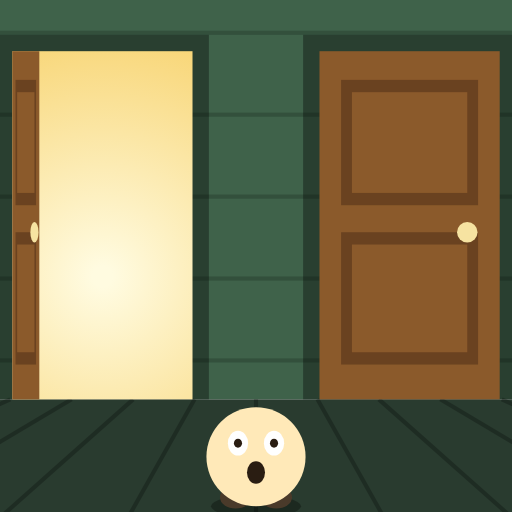
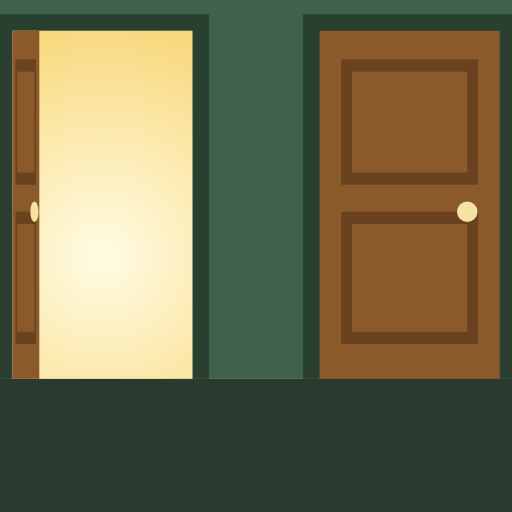
two-doors: drop title screen and character, first-person deaths
Claude-Session: https://claude.ai/code/session_0143w8G9asUehyQUcRHNAQVS

diff --git a/games/two-doors/index.html b/games/two-doors/index.html
@@ -30,7 +30,6 @@ header button,header select{background:#2a2430;color:#f4ecdc;border:1px solid #4
 canvas{display:block;touch-action:none;border-radius:14px;cursor:pointer;max-width:100%}
 .panel{position:absolute;inset:0;display:flex;flex-direction:column;align-items:center;justify-content:center;gap:14px;text-align:center;padding:0 16px calc(env(safe-area-inset-bottom))}
 .panel[hidden]{display:none}
-#start h1{margin:0;font-size:clamp(30px,9vw,46px);letter-spacing:.06em;text-shadow:0 3px 0 #000,0 0 24px #000}
 .panel button,.panel a{font:inherit;font-size:18px;font-weight:700;border:0;border-radius:999px;padding:12px 28px;min-width:180px;cursor:pointer;text-decoration:none;display:inline-block}
 .go{background:#f2c14e;color:#2a1a05;box-shadow:0 4px 0 #9b6f12}
 #share{background:#000;color:#fff;box-shadow:0 4px 0 #444}
@@ -49,7 +48,6 @@ canvas{display:block;touch-action:none;border-radius:14px;cursor:pointer;max-wid
 </header>
 <div id="stage">
   <canvas id="c"></canvas>
-  <div class="panel" id="start"><h1 id="title"></h1><button class="go" id="startBtn"></button></div>
   <div class="panel" id="result" hidden>
     <div id="rooms"></div><div id="best"></div>
     <a id="share" href="#"></a>
@@ -60,10 +58,10 @@ canvas{display:block;touch-action:none;border-radius:14px;cursor:pointer;max-wid
 const $=id=>document.getElementById(id);
 const SHARE_URL='https://keifurukawafunnych.com/games/two-doors/',SHARE_NAME='two-doors.png',TAG='#運命のドアゲーム';
 const L={
- ja:{title:'運命のドア',back:'← トップへ戻る',start:'スタート',retry:'もう一度',share:'X に投稿',rooms:n=>`${n}部屋`,best:n=>`自己ベスト ${n}部屋`,newBest:'自己ベスト更新',saved:'画像を保存しました',shareText:n=>`運命のドアで${n}部屋まで進んだ\n${TAG}`},
- ko:{title:'운명의 문',back:'← 처음으로',start:'시작',retry:'다시 하기',share:'X에 게시',rooms:n=>`${n}개의 방`,best:n=>`최고 기록 ${n}개의 방`,newBest:'최고 기록 갱신',saved:'이미지를 저장했어요',shareText:n=>`운명의 문에서 ${n}개의 방까지 갔다\n${TAG}`},
- en:{title:'Doors of Fate',back:'← Back to top',start:'Start',retry:'Play again',share:'Post on X',rooms:n=>`${n} room${n===1?'':'s'}`,best:n=>`Best ${n} room${n===1?'':'s'}`,newBest:'New best',saved:'Image saved',shareText:n=>`I made it through ${n} room${n===1?'':'s'} in Doors of Fate\n${TAG}`},
- th:{title:'ประตูแห่งโชคชะตา',back:'← กลับหน้าแรก',start:'เริ่ม',retry:'เล่นอีกครั้ง',share:'โพสต์ลง X',rooms:n=>`${n} ห้อง`,best:n=>`สถิติสูงสุด ${n} ห้อง`,newBest:'ทำสถิติใหม่',saved:'บันทึกรูปแล้ว',shareText:n=>`ผ่านไปได้ ${n} ห้องในประตูแห่งโชคชะตา\n${TAG}`}
+ ja:{title:'運命のドア',back:'← トップへ戻る',retry:'もう一度',share:'X に投稿',rooms:n=>`${n}部屋`,best:n=>`自己ベスト ${n}部屋`,newBest:'自己ベスト更新',saved:'画像を保存しました',shareText:n=>`運命のドアで${n}部屋まで進んだ\n${TAG}`},
+ ko:{title:'운명의 문',back:'← 처음으로',retry:'다시 하기',share:'X에 게시',rooms:n=>`${n}개의 방`,best:n=>`최고 기록 ${n}개의 방`,newBest:'최고 기록 갱신',saved:'이미지를 저장했어요',shareText:n=>`운명의 문에서 ${n}개의 방까지 갔다\n${TAG}`},
+ en:{title:'Doors of Fate',back:'← Back to top',retry:'Play again',share:'Post on X',rooms:n=>`${n} room${n===1?'':'s'}`,best:n=>`Best ${n} room${n===1?'':'s'}`,newBest:'New best',saved:'Image saved',shareText:n=>`I made it through ${n} room${n===1?'':'s'} in Doors of Fate\n${TAG}`},
+ th:{title:'ประตูแห่งโชคชะตา',back:'← กลับหน้าแรก',retry:'เล่นอีกครั้ง',share:'โพสต์ลง X',rooms:n=>`${n} ห้อง`,best:n=>`สถิติสูงสุด ${n} ห้อง`,newBest:'ทำสถิติใหม่',saved:'บันทึกรูปแล้ว',shareText:n=>`ผ่านไปได้ ${n} ห้องในประตูแห่งโชคชะตา\n${TAG}`}
 };
 const LANGS=['ja','ko','en','th'];
 let lang=null;try{lang=localStorage.getItem('two-doors-lang')}catch{}
@@ -87,7 +85,7 @@ const SFX={
 };
 
 // ---- 描画 ----
-const W=360,H=560,FL=400,DW=88,DH=170,DX=[105,255],PY=480,FY=418;
+const W=360,H=560,FL=400,DW=88,DH=170,DX=[105,255];
 const cv=$('c'),cx=cv.getContext('2d');
 function fit(){const r=$('stage').getBoundingClientRect(),s=Math.min(r.width/W,r.height/H),dpr=Math.min(devicePixelRatio||1,3);cv.style.width=W*s+'px';cv.style.height=H*s+'px';cv.width=Math.round(W*s*dpr);cv.height=Math.round(H*s*dpr);scale=s*dpr}
 let scale=1;
@@ -95,9 +93,7 @@ function theme(lv){const h=(28+lv*37)%360,d=Math.max(10,34-lv*.8);return{wall:`h
 function ell(c,x,y,rx,ry,col){c.fillStyle=col;c.beginPath();c.ellipse(x,y,Math.max(.1,rx),Math.max(.1,ry),0,0,7);c.fill()}
 function drawRoom(c,lv,open){
  const th=theme(lv);c.fillStyle=th.wall;c.fillRect(0,0,W,FL);
- c.fillStyle=th.wall2;for(let y=20;y<FL;y+=40)c.fillRect(0,y,W,2);
  c.fillStyle=th.floor;c.fillRect(0,FL,W,H-FL);
- c.strokeStyle='rgba(0,0,0,.25)';c.lineWidth=2;for(let i=-4;i<=4;i++){c.beginPath();c.moveTo(180+i*30,FL);c.lineTo(180+i*120,H);c.stroke()}
  // ランプ（クリアした部屋の数）
  const per=10,r=lv>30?4:6;for(let i=0;i<lv;i++){const row=Math.floor(i/per),col=i%per;ell(c,180+(col-4.5)*(r*2.8),26+row*(r*2.8),r,r,i%10===9?'#ffe27a':'#f2c14e')}
  for(let s=0;s<2;s++){
@@ -117,63 +113,49 @@ function drawRoom(c,lv,open){
   ell(c,x+w*.82,y+DH*.52,5*(1-p*.6),5,'#f6e3a1');
  }
 }
-function drawPlayer(c,x,y,s,o={}){
- c.save();c.translate(x,y);c.rotate(o.rot||0);c.scale(s*(o.sx||1),s*(o.sy||1));
- c.globalAlpha=o.alpha??1;
- ell(c,0,22,20,5,'rgba(0,0,0,.3)');
- ell(c,-9,18,7,5,o.foot||'#4a3a2a');ell(c,9,18,7,5,o.foot||'#4a3a2a');
- ell(c,0,0,22,22,o.col||'#ffe9b8');
- if(o.bones){c.strokeStyle='#fff';c.lineWidth=2.5;c.beginPath();c.moveTo(0,-6);c.lineTo(0,16);for(let i=0;i<3;i++){c.moveTo(-10,2+i*5);c.lineTo(10,2+i*5)}c.stroke()}
- const e=o.eyes||'n',ec=o.eyeCol||'#2a1d12';c.strokeStyle=ec;c.fillStyle=ec;c.lineWidth=2.5;
- for(const ex of[-8,8]){
-  if(e==='x'){c.beginPath();c.moveTo(ex-4,-10);c.lineTo(ex+4,-2);c.moveTo(ex+4,-10);c.lineTo(ex-4,-2);c.stroke()}
-  else if(e==='o'){ell(c,ex,-6,4.5,5.5,'#fff');ell(c,ex,-6,1.8,2,ec)}
-  else ell(c,ex,-6,3,3.5,ec);
- }
- if(e==='o'||e==='x')ell(c,0,7,4,5,ec);
- c.restore();
-}
 const lerp=(a,b,k)=>a+(b-a)*k,cl=k=>Math.max(0,Math.min(1,k)),ease=k=>k*k*(3-2*k);
 function flame(c,x,y,s,k){for(let i=0;i<3;i++){const h=s*(1-i*.3)*(0.85+.15*Math.sin(k*40+i));c.fillStyle=['#e8481c','#f59a1f','#ffe066'][i];c.beginPath();c.moveTo(x-s*.45*(1-i*.3),y);c.quadraticCurveTo(x-s*.5*(1-i*.3),y-h*.6,x,y-h);c.quadraticCurveTo(x+s*.5*(1-i*.3),y-h*.6,x+s*.45*(1-i*.3),y);c.fill()}}
-function arrow(c,x,y,dir,len){c.strokeStyle='#5b3a1c';c.lineWidth=3;c.beginPath();c.moveTo(x,y);c.lineTo(x-dir*len,y);c.stroke();c.fillStyle='#ccc';c.beginPath();c.moveTo(x+dir*6,y);c.lineTo(x-dir*2,y-5);c.lineTo(x-dir*2,y+5);c.fill();c.fillStyle='#d33';c.fillRect(dir>0?x-len:x+len-8,y-4,8,8)}
-
-// 死に方：k は 0〜1。x は外れドアの前
+// 画面のひび（目の前に当たった跡）
+function crack(c,x,y,r,col='rgba(255,255,255,.85)'){c.strokeStyle=col;c.lineWidth=2;for(let i=0;i<9;i++){const a=i*.7+.3;c.beginPath();c.moveTo(x,y);let px=x,py=y;for(let j=1;j<=3;j++){px=x+Math.cos(a+j*.15*(i%2?1:-1))*r*j/3;py=y+Math.sin(a+j*.15*(i%2?1:-1))*r*j/3;c.lineTo(px,py)}c.stroke()}}
+function redEdge(c,a){const g=c.createRadialGradient(W/2,H/2,H*.2,W/2,H/2,H*.7);g.addColorStop(0,'rgba(170,0,0,0)');g.addColorStop(1,`rgba(170,0,0,${a})`);c.fillStyle=g;c.fillRect(0,0,W,H)}
+function monsterFace(c,m){ell(c,0,0,48,44,'#5b2a7a');ell(c,-18,-18,9,9,'#ffe94a');ell(c,18,-18,9,9,'#ffe94a');ell(c,-18,-18,3,6,'#000');ell(c,18,-18,3,6,'#000');ell(c,0,14,34,m,'#1a0a14');c.fillStyle='#fff';for(let i=-3;i<=3;i++){c.beginPath();c.moveTo(i*9-4,14-m);c.lineTo(i*9,14-m+10);c.lineTo(i*9+4,14-m);c.fill();c.beginPath();c.moveTo(i*9-4,14+m);c.lineTo(i*9,14+m-10);c.lineTo(i*9+4,14+m);c.fill()}}
+function rock(c,x,y,r,rot){c.save();c.translate(x,y);c.rotate(rot);ell(c,0,0,r,r,'#7c7468');ell(c,-r*.3,-r*.2,r*.2,r*.15,'#5f584e');ell(c,r*.35,r*.3,r*.25,r*.18,'#5f584e');ell(c,r*.1,-r*.5,r*.15,r*.1,'#5f584e');c.restore()}
+function ghostShape(c){c.fillStyle='#f4f6ff';c.beginPath();c.arc(0,0,34,Math.PI,0);c.lineTo(34,40);for(let i=0;i<4;i++)c.quadraticCurveTo(34-i*17-8,50,34-(i+1)*17,40);c.fill();ell(c,-12,-6,6,8,'#111');ell(c,12,-6,6,8,'#111');ell(c,0,14,7,9,'#111')}
+const DY=FL-DH/2;
+// 死に方：k は 0〜1、x は外れドアの中心。すべて自分の目線で起きる
 const DEATHS={
- pit(c,k,x){const hr=lerp(0,42,cl(k/.2));ell(c,x,FY+16,hr,hr*.32,'#000');const f=cl((k-.2)/.45);if(f<1)drawPlayer(c,x,FY+f*f*30,.9*(1-f),{eyes:'o'})},
- crush(c,k,x){const f=cl(k/.35),by=lerp(-260,FY+22-160,f*f);const hit=f>=1;drawPlayer(c,x,hit?FY+18:FY,.9,hit?{sy:.12,sx:1.9,eyes:'x'}:{eyes:k>.15?'o':'n'});c.fillStyle='#555a60';c.fillRect(x-70,by,140,160);c.fillStyle='#3d4146';for(let i=0;i<4;i++)c.fillRect(x-70,by+20+i*36,140,6);c.strokeStyle='#2a2d31';c.lineWidth=4;c.beginPath();c.moveTo(x,0);c.lineTo(x,by);c.stroke()},
- spikes(c,k,x){const f=cl((k-.08)/.12),j=cl((k-.15)/.6),jy=-Math.sin(j*Math.PI)*60;drawPlayer(c,x,FY+jy+(j>=1?14:0),.9,{eyes:j>0?'x':'o',col:j>0?'#ff8a7a':undefined,rot:j>=1?1.5:0});c.fillStyle='#cfd3d8';for(let i=-4;i<=4;i++){const sx=x+i*12;c.beginPath();c.moveTo(sx-6,FY+26);c.lineTo(sx,FY+26-46*f);c.lineTo(sx+6,FY+26);c.fill()}},
- fire(c,k,x){const f=cl(k/.35),burnt=k>.4;for(let i=0;i<5;i++)flame(c,x+(i-2)*16,FL-4+(i%2)*6,lerp(10,90,f)*(1-Math.abs(i-2)*.15),k+i);drawPlayer(c,x,FY,.9,{col:burnt?'#2b2522':undefined,foot:burnt?'#111':undefined,eyes:burnt?'o':'n',eyeCol:burnt?'#fff':undefined});if(burnt){for(let i=0;i<4;i++){const s=cl((k-.4)/.6+i*.15)%1;ell(c,x+Math.sin(i*2+s*6)*10,FY-30-s*120,8+s*14,8+s*14,`rgba(80,80,80,${.6*(1-s)})`)}}else for(let i=0;i<3;i++)flame(c,x+(i-1)*14,FY+20,30*f,k*2+i)},
- monster(c,k,x){const ap=cl(k/.3),ln=cl((k-.35)/.2),gone=k>.55,s=lerp(.5,1,ap)+ln*.7,yy=lerp(FL-80,FY-20,ln);if(!gone)drawPlayer(c,x,FY,.9,{eyes:'o'});const bk=gone?cl((k-.6)/.3):0;c.save();c.translate(x,lerp(yy,FL-80,bk));const ss=lerp(s,.6,bk);c.scale(ss,ss);ell(c,0,0,48,44,'#5b2a7a');ell(c,-18,-18,9,9,'#ffe94a');ell(c,18,-18,9,9,'#ffe94a');ell(c,-18,-18,3,6,'#000');ell(c,18,-18,3,6,'#000');const m=gone?2:lerp(4,26,ap);ell(c,0,14,34,m,'#1a0a14');c.fillStyle='#fff';for(let i=-3;i<=3;i++){c.beginPath();c.moveTo(i*9-4,14-m);c.lineTo(i*9,14-m+10);c.lineTo(i*9+4,14-m);c.fill();c.beginPath();c.moveTo(i*9-4,14+m);c.lineTo(i*9,14+m-10);c.lineTo(i*9+4,14+m);c.fill()}c.restore()},
- bolt(c,k,x){const hit=k>.2,fl=k>.2&&k<.45&&Math.floor(k*40)%2===0;const o=hit?(fl?{col:'#111',bones:true,eyes:'x',eyeCol:'#fff'}:{col:'#2b2522',eyes:'o',eyeCol:'#fff',foot:'#111'}):{eyes:'n'};drawPlayer(c,x,FY,.9,o);if(hit&&k>.45){c.strokeStyle='#222';c.lineWidth=3;for(let i=-2;i<=2;i++){c.beginPath();c.moveTo(x+i*6,FY-18);c.lineTo(x+i*9,FY-32+Math.abs(i)*3);c.stroke()}}if(k>.15&&k<.45){c.strokeStyle='#fff8a0';c.lineWidth=6;c.beginPath();c.moveTo(x+30,0);let yy=0,xx=x+30;while(yy<FY-20){yy+=40;xx+=(Math.floor(yy/40)%2?-26:22);c.lineTo(xx,yy)}c.lineTo(x,FY-20);c.stroke();if(fl){c.fillStyle='rgba(255,255,255,.7)';c.fillRect(0,0,W,H)}}},
- flood(c,k,x){const f=ease(cl(k/.6)),wy=lerp(H+20,-10,f),py=Math.min(FY,wy+20+Math.sin(k*20)*4);drawPlayer(c,x,py,.9,{eyes:k>.5?'x':'o',rot:k>.5?Math.sin(k*10)*.3:0});c.fillStyle='rgba(40,120,210,.7)';c.fillRect(0,wy,W,H-wy);for(let i=0;i<10;i++){const b=(k*1.5+i/10)%1;ell(c,(i*53+20)%W,H-(H-wy)*b,3+i%3,3+i%3,'rgba(220,240,255,.7)')}if(k<.6){c.fillStyle='rgba(60,150,230,.85)';c.fillRect(x-DW/2,FL-DH,DW,DH)}},
- boulder(c,k,x){const f=cl(k/.5),r=lerp(30,90,f),by=lerp(FL-40,FY+20,f)+Math.min(0,(k-.55)*0)+ (k>.55?(k-.55)*500:0);drawPlayer(c,x,k>.45?FY+18:FY,.9,k>.45?{sy:.1,sx:2,eyes:'x'}:{eyes:'o'});if(by-r<H){c.save();c.translate(x,by);c.rotate(k*8);ell(c,0,0,r,r,'#7c7468');c.fillStyle='#5f584e';ell(c,-r*.3,-r*.2,r*.2,r*.15,'#5f584e');ell(c,r*.35,r*.3,r*.25,r*.18,'#5f584e');ell(c,r*.1,-r*.5,r*.15,r*.1,'#5f584e');c.restore()}},
- ghost(c,k,x){const g=cl(k/.35),soul=cl((k-.4)/.6);drawPlayer(c,x,FY,.9,{col:k>.4?'#cfd8e0':undefined,eyes:k>.4?'x':'o'});if(soul>0)drawPlayer(c,x+Math.sin(soul*8)*12,FY-soul*360,.7,{alpha:.55*(1-soul*.6),col:'#fff',eyes:'n',foot:'rgba(255,255,255,.4)'});const gx=lerp(x,x+40,soul),gy=lerp(FL-80,FY-50,g)-soul*80;c.save();c.globalAlpha=1-soul*.7;c.translate(gx,gy);c.fillStyle='#f4f6ff';c.beginPath();c.arc(0,0,34,Math.PI,0);c.lineTo(34,40);for(let i=0;i<4;i++)c.quadraticCurveTo(34-i*17-8,50,34-(i+1)*17,40);c.fill();ell(c,-12,-6,6,8,'#111');ell(c,12,-6,6,8,'#111');ell(c,0,14,7,9,'#111');c.restore()},
- arrows(c,k,x){const n=Math.floor(cl((k-.2)/.4)*4.99),down=k>.7;const tilt=down?cl((k-.7)/.15)*1.5:0;c.save();c.translate(x,FY+20);c.rotate(tilt);c.translate(-x,-FY-20);drawPlayer(c,x,FY,.9,{eyes:n>0?'x':'o'});for(let i=0;i<n;i++){const d=i%2?-1:1;arrow(c,x-d*8,FY-10+i*7-6,d,40)}c.restore();for(let i=n;i<4;i++){const ak=cl((k-.2-i*.1)/.1);if(ak>0){const d=i%2?-1:1;arrow(c,lerp(d>0?-40:W+40,x-d*8,ak),FY-16+i*7,d,40)}}}
+ pit(){},
+ crush(c,k){const f=cl(k/.35),by=lerp(-H,0,f*f);c.fillStyle='#555a60';c.fillRect(0,by,W,H);c.fillStyle='#3d4146';for(let i=0;i<7;i++)c.fillRect(0,by+40+i*80,W,10);if(f>=1){crack(c,W/2,H*.55,200,'rgba(0,0,0,.6)');redEdge(c,.5)}},
+ spikes(c,k){const f=ease(cl((k-.05)/.2));c.fillStyle='#cfd3d8';for(let i=0;i<7;i++){const sx=i*60;c.beginPath();c.moveTo(sx-10,H);c.lineTo(sx+20,H-f*H*(.55+.15*(i%2)));c.lineTo(sx+50,H);c.fill()}if(f>=1)redEdge(c,.6)},
+ fire(c,k,x){const f=cl(k/.5);for(let i=0;i<7;i++)flame(c,x+(i-3)*lerp(14,70,f),FL+lerp(0,200,f),lerp(40,700,f*f)*(1-Math.abs(i-3)*.1),k+i);if(k>.55){const b=cl((k-.55)/.3);c.fillStyle=`rgba(20,14,12,${b*.92})`;c.fillRect(0,0,W,H);for(let i=0;i<6;i++){const s=(k*.8+i/6)%1;ell(c,40+i*55,H-s*H,20+s*40,20+s*40,`rgba(110,110,110,${.5*b*(1-s)})`)}}},
+ monster(c,k,x){const ap=cl(k/.3),ln=ease(cl((k-.35)/.2)),bite=cl((k-.55)/.08);c.save();c.translate(lerp(x,W/2,ln),lerp(DY,H/2,ln));const s=lerp(.6,1,ap)*lerp(1,5,ln);c.scale(s,s);monsterFace(c,lerp(4,26,ap)+ln*10);c.restore();if(bite>0){const h=bite*H/2;c.fillStyle='#1a0a14';c.fillRect(0,0,W,h);c.fillRect(0,H-h,W,h);c.fillStyle='#fff';for(let i=0;i<8;i++){c.beginPath();c.moveTo(i*46,h);c.lineTo(i*46+23,h+40);c.lineTo(i*46+46,h);c.fill();c.beginPath();c.moveTo(i*46,H-h);c.lineTo(i*46+23,H-h-40);c.lineTo(i*46+46,H-h);c.fill()}}},
+ bolt(c,k,x){const fl=k>.2&&k<.45&&Math.floor(k*40)%2===0;if(k>.15&&k<.45){c.strokeStyle='#fff8a0';c.lineWidth=10;c.beginPath();c.moveTo(x,DY);let yy=DY,xx=x;while(yy<H){yy+=50;xx+=(Math.floor(yy/50)%2?-50:45);c.lineTo(xx,yy)}c.stroke()}if(fl){c.fillStyle='rgba(255,255,255,.85)';c.fillRect(0,0,W,H)}if(k>=.45){c.fillStyle='rgba(15,12,10,.85)';c.fillRect(0,0,W,H);for(let i=0;i<5;i++){const s=((k-.45)*.8+i/5)%1;ell(c,50+i*65,H-s*H*.8,18+s*30,18+s*30,`rgba(120,120,120,${.5*(1-s)})`)}}},
+ flood(c,k,x){const f=ease(cl((k-.15)/.5)),wy=lerp(H+20,-30,f);c.fillStyle='rgba(60,150,230,.9)';c.fillRect(x-DW/2,FL-DH,DW,DH);c.fillStyle='rgba(40,120,210,.88)';c.beginPath();c.moveTo(0,wy);for(let i=0;i<=12;i++)c.lineTo(i*30,wy+Math.sin(k*12+i)*8);c.lineTo(W,H);c.lineTo(0,H);c.fill();for(let i=0;i<14;i++){const b=(k*1.2+i/14)%1;if(H-b*H>wy)ell(c,(i*53+20)%W,H-b*H,4+i%4,4+i%4,'rgba(220,240,255,.7)')}},
+ boulder(c,k,x){const f=cl(k/.5);if(f<1)rock(c,lerp(x,W/2,f),lerp(FL-40,H/2,f),lerp(30,420,f*f*f),k*6);else{c.fillStyle='#4a443c';c.fillRect(0,0,W,H);crack(c,W/2,H/2,260,'rgba(0,0,0,.6)');redEdge(c,.5)}},
+ ghost(c,k,x){const g=ease(cl(k/.6));c.save();c.translate(lerp(x,W/2,g),lerp(DY,H/2,g)+Math.sin(k*9)*6*(1-g));const s=lerp(.6,7,g*g);c.scale(s,s);c.globalAlpha=.95;ghostShape(c);c.restore();if(k>.6){c.fillStyle=`rgba(244,246,255,${cl((k-.6)/.3)})`;c.fillRect(0,0,W,H)}},
+ arrows(c,k,x){const hits=[[90,190],[260,250],[150,370],[230,120]];hits.forEach(([hx,hy],i)=>{const a=cl((k-.15-i*.1)/.1);if(a<=0)return;if(a<1){const px=lerp(x,hx,a),py=lerp(DY,hy,a),s=lerp(.3,1.4,a);c.save();c.translate(px,py);c.scale(s,s);c.fillStyle='#ccc';c.beginPath();c.moveTo(0,-12);c.lineTo(10,8);c.lineTo(-10,8);c.fill();c.restore()}else{crack(c,hx,hy,60);c.fillStyle='#ccc';c.beginPath();c.moveTo(hx,hy-16);c.lineTo(hx+14,hy+10);c.lineTo(hx-14,hy+10);c.fill()}});if(k>.55)redEdge(c,cl((k-.55)/.3)*.7)}
 };
 const DKEYS=Object.keys(DEATHS);
 
 // ---- 状態 ----
-let mode='start',level=0,phase='idle',pt=0,side=0,good=false,death=null,lastDeath=null,isNew=false;
-function choose(s){if(mode!=='play'||phase!=='idle')return;side=s;good=Math.random()<.5;phase='walk';pt=0;tone(300,.08,.05)}
+let mode='play',level=0,phase='idle',pt=0,side=0,good=false,death=null,lastDeath=null,isNew=false;
+function choose(s){if(mode!=='play'||phase!=='idle')return;side=s;good=Math.random()<.5;phase='open';pt=0;SFX.creak()}
 function step(dt){
- if(mode==='start'||mode==='result')return;pt+=dt;
- if(phase==='walk'&&pt>=.4){phase='open';pt=0;SFX.creak()}
- else if(phase==='open'&&pt>=.4){pt=0;if(good){phase='enter';SFX.win()}else{phase='death';let d;do d=DKEYS[Math.floor(Math.random()*DKEYS.length)];while(d===lastDeath);death=lastDeath=d;SFX[d]()}}
- else if(phase==='enter'&&pt>=.75){level++;phase='idle';pt=0}
+ if(mode!=='play')return;pt+=dt;
+ if(phase==='open'&&pt>=.45){pt=0;if(good){phase='enter';SFX.win()}else{phase='death';let d;do d=DKEYS[Math.floor(Math.random()*DKEYS.length)];while(d===lastDeath);death=lastDeath=d;SFX[d]()}}
+ else if(phase==='enter'&&pt>=.7){level++;phase='idle';pt=0}
  else if(phase==='death'&&pt>=2.1){mode='result';isNew=level>best;if(isNew){best=level;try{localStorage.setItem('two-doors-best',best)}catch{}}showResult();tone(220,.4,.06,'triangle')}
 }
 function drawScene(c,shake=true){
- c.save();let sx=0,sy=0;const dk=phase==='death'?pt/1.8:0;
- if(shake&&phase==='death'&&mode==='play'&&((death==='crush'&&dk>.35&&dk<.5)||(death==='boulder'&&dk>.4&&dk<.55)||(death==='bolt'&&dk>.2&&dk<.4))){sx=(Math.random()-.5)*12;sy=(Math.random()-.5)*12}
- c.translate(sx,sy);
- const x=DX[side];let open=null,px=180,py=PY,ps=1;
- if(phase==='walk'){const k=ease(cl(pt/.4));px=lerp(180,x,k);py=lerp(PY,FY,k);ps=lerp(1,.9,k)}
- else if(phase!=='idle'){px=x;py=FY;ps=.9;open={side,good,p:phase==='open'?ease(cl(pt/.4)):1}}
- drawRoom(c,level,open);
- if(phase==='death')DEATHS[death](c,cl(dk),x);
- else if(phase==='enter'){const k=cl(pt/.4);if(k<1)drawPlayer(c,x,lerp(FY,FL-30,k),lerp(.9,.4,k),{alpha:1-k*.6});const f=cl((pt-.35)/.4);c.fillStyle=`rgba(255,248,220,${Math.sin(f*Math.PI)})`;c.fillRect(-20,-20,W+40,H+40)}
- else drawPlayer(c,px,py+(phase==='idle'?Math.sin(performance.now()/300)*2:0),ps);
+ c.save();const dk=phase==='death'?cl(pt/1.8):0,x=DX[side];
+ if(shake&&phase==='death'&&mode==='play'&&((death==='crush'&&dk>.3&&dk<.45)||(death==='boulder'&&dk>.45&&dk<.6)||(death==='bolt'&&dk>.2&&dk<.4)||(death==='arrows'&&dk>.25&&dk<.55)))c.translate((Math.random()-.5)*12,(Math.random()-.5)*12);
+ // 当たり：ドアの奥へズームしながら光に包まれる。落とし穴：部屋ごと上へ流れていく
+ if(phase==='enter'){const z=ease(cl(pt/.6));c.translate(lerp(0,W/2-x,z),lerp(0,H/2-DY,z));c.translate(x,DY);c.scale(1+z*3,1+z*3);c.translate(-x,-DY)}
+ if(phase==='death'&&death==='pit'){const f=ease(cl((dk-.1)/.6));c.fillStyle='#000';c.fillRect(0,0,W,H);c.translate(W/2,lerp(H*.5,H*.12,f));c.scale(lerp(1,.16,f),lerp(1,.16,f));c.translate(-W/2,-H*.5)}
+ drawRoom(c,level,phase==='idle'?null:{side,good,p:phase==='open'?ease(cl(pt/.45)):1});
+ if(phase==='death')DEATHS[death](c,dk,x);
  c.restore();
+ if(phase==='enter'){const f=cl((pt-.3)/.4);c.fillStyle=`rgba(255,248,220,${Math.sin(f*Math.PI)})`;c.fillRect(0,0,W,H)}
 }
 let last=performance.now();
 function loop(now){const dt=Math.min(.05,(now-last)/1000);last=now;step(dt);cx.setTransform(scale,0,0,scale,0,0);cx.clearRect(0,0,W,H);drawScene(cx);requestAnimationFrame(loop)}
@@ -181,8 +163,8 @@ function loop(now){const dt=Math.min(.05,(now-last)/1000);last=now;step(dt);cx.s
 // ---- 入力 ----
 cv.addEventListener('pointerdown',e=>{e.preventDefault();const r=cv.getBoundingClientRect(),x=(e.clientX-r.left)/r.width*W,y=(e.clientY-r.top)/r.height*H;if(y>FL-DH-30&&y<H)choose(x<180?0:1)});
 addEventListener('keydown',e=>{if(e.key==='ArrowLeft')choose(0);else if(e.key==='ArrowRight')choose(1);else if((e.key==='Enter'||e.key===' ')&&mode!=='play'&&document.activeElement.tagName!=='A'&&document.activeElement.tagName!=='BUTTON'){e.preventDefault();begin()}});
-function begin(){mode='play';level=0;phase='idle';pt=0;death=null;$('start').hidden=true;$('result').hidden=true;tone(440,.1,.05)}
-$('startBtn').onclick=begin;$('retry').onclick=begin;
+function begin(){mode='play';level=0;phase='idle';pt=0;death=null;$('result').hidden=true;tone(440,.1,.05)}
+$('retry').onclick=begin;
 
 // ---- 結果・共有 ----
 function resultImage(){
@@ -192,7 +174,6 @@ function resultImage(){
  g.fillStyle='rgba(0,0,0,.6)';g.fillRect(0,S*.84,S,S*.16);
  g.fillStyle='#fff';g.textAlign='center';g.textBaseline='middle';
  g.font='800 96px system-ui,"Hiragino Sans","Noto Sans JP","Noto Sans KR","Noto Sans Thai",sans-serif';g.fillText(t('rooms')(level),S/2,S*.92);
- g.font='700 40px system-ui,"Hiragino Sans","Noto Sans JP","Noto Sans KR","Noto Sans Thai",sans-serif';g.fillStyle='#f2c14e';g.textAlign='left';g.fillText(t('title'),30,S*.05);
  return c;
 }
 let shareFile=null,shareKey='';
@@ -209,7 +190,7 @@ $('share').onclick=e=>{
 // ---- 言語・音 ----
 function drawSpeaker(){$('sound').innerHTML=`<svg width="20" height="20" viewBox="0 0 24 24" fill="none" stroke="currentColor" stroke-width="2" stroke-linejoin="round"><path d="M4 9h4l5-4v14l-5-4H4z" fill="currentColor"/>${sound?'<path d="M16 8.5a5 5 0 0 1 0 7M18.5 6a8.5 8.5 0 0 1 0 12"/>':'<path d="M16 9l6 6M22 9l-6 6"/>'}</svg>`}
 $('sound').onclick=()=>{sound=!sound;try{localStorage.setItem('two-doors-sound',sound?'1':'0')}catch{}drawSpeaker();tone(660,.08,.05)};
-function applyLang(){document.documentElement.lang=lang;document.title=t('title');$('lang').value=lang;$('back').textContent=t('back');$('title').textContent=t('title');$('startBtn').textContent=t('start');$('retry').textContent=t('retry');if(mode==='result'){renderResult();prepareShare()}}
+function applyLang(){document.documentElement.lang=lang;document.title=t('title');$('lang').value=lang;$('back').textContent=t('back');$('retry').textContent=t('retry');if(mode==='result'){renderResult();prepareShare()}}
 $('lang').onchange=()=>{lang=$('lang').value;try{localStorage.setItem('two-doors-lang',lang)}catch{}applyLang()};
 addEventListener('resize',fit);fit();drawSpeaker();applyLang();requestAnimationFrame(loop);
 </script>
